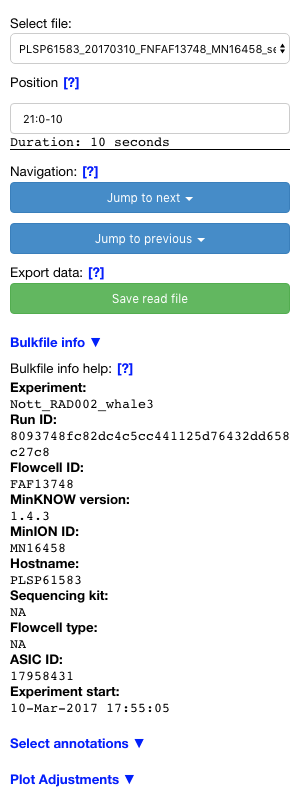
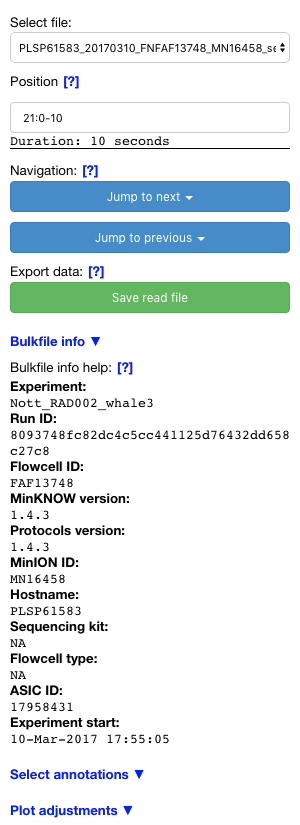
Update quickstart docs, main.py OSError bug resolved

Changed region(s): [[0.03, 0.0, 0.99, 0.9962]]

diff --git a/main.py b/main.py
@@ -413,7 +413,7 @@ def build_widgets():
     )
     wdg['label_filter'] = CheckboxGroup(labels=check_labels, active=check_active, css_classes=['filter-drop'])
     
-    wdg['plot_options'] = Div(text='Plot Adjustments', css_classes=['adjust-dropdown', 'caret-down'])
+    wdg['plot_options'] = Div(text='Plot adjustments', css_classes=['adjust-dropdown', 'caret-down'])
     wdg['adjust_help'] = Div(text='adjust help:', css_classes=['adjust-help-dropdown', 'help-text', 'adjust-drop'])
     wdg['adjust_help_text'] = Div(
         text="""Adjust chart parameters, such as width, height and where annotations are rendered. These are set in the
@@ -428,12 +428,12 @@ def build_widgets():
         value=cfg_po['label_height'],
         css_classes=['adjust-drop']
     )
-    wdg['po_y_max'] = TextInput(title="y max", value=cfg_po['y_max'], css_classes=['adjust-drop'])
-    wdg['po_y_min'] = TextInput(title="y min", value=cfg_po['y_min'], css_classes=['adjust-drop'])
+    wdg['po_y_max'] = TextInput(title="y max", value=cfg_po['y_max'], css_classes=['adjust-drop', 'toggle_y_target'])
+    wdg['po_y_min'] = TextInput(title="y min", value=cfg_po['y_min'], css_classes=['adjust-drop', 'toggle_y_target'])
     wdg['toggle_y_axis'] = Toggle(
         label="Fixed Y-axis",
         button_type="danger",
-        css_classes=['toggle_button_g_r', 'adjust-drop'],
+        css_classes=['toggle_button_g_r', 'adjust-drop', 'toggle_y_axis'],
         active=False
     )
     wdg['toggle_smoothing'] = Toggle(
@@ -699,10 +699,19 @@ toggle_inputs = ['toggle_y_axis', 'toggle_annotations', 'toggle_smoothing']
 app_data['app_vars']['files'] = []
 p = Path(cfg_dr['dir'])
 app_data['app_vars']['files'] = [(x.name, x.name) for x in p.iterdir() if x.suffix == '.fast5']
+# check files are useable by h5py
 for index, file in enumerate(app_data['app_vars']['files']):
     file = file[0]
-    bulk_file = h5py.File(Path(Path(cfg_dr['dir']) / file), 'r')
-    try_path = bulk_file["Raw"]
+    try:
+        bulk_file = h5py.File(Path(Path(cfg_dr['dir']) / file), 'r')
+    except OSError:
+        app_data['app_vars']['files'][index] = None
+        continue
+    try:
+        try_path = bulk_file["Raw"]
+    except KeyError:
+        app_data['app_vars']['files'][index] = None
+        continue
     for i, channel in enumerate(try_path):
         if i == 0:
             try:

diff --git a/docs/quickstart.rst b/docs/quickstart.rst
@@ -27,6 +27,8 @@ entered.
     :class: figure
     :alt: Screenshot of bulkvis showing, in the top left corner, a drop-down box with a file selected and a text box labeled position
 
+    Screenshot of bulkvis waiting for position information
+
 Selecting a position
 ====================
 The position can be selected by either supplying coordinates or a fastq read header. The contents of this input is submitted
@@ -56,7 +58,7 @@ After entering valid input the chart and other elements will load:
     :class: figure
     :alt: Screenshot of bulkvis showing a 'squiggle' plot of raw nanopore signal and a left-hand sidebar containing information about the plot
 
-
+    Screenshot of bulkvis fully loaded with both plot and sidebar
 
 Navigating
 ==========
@@ -76,25 +78,62 @@ displayed in MinKNOW.
     :class: figure
     :alt: Screenshot of the sidebar from bulkvis, showing the file selections drop-down, position input, jump-to buttons, export button, information panel, and two hidden sections ('Select annotations' and 'Plot adjustments')
 
-Screenshot of sidebar
+    Screenshot of bulkvis sidebar
 
 Annotations
 ===========
-How to use annotations ...
+Annotations are added to the plot based on state data and intermediate data from the bulkfile. These represent the label
+computed by MinKNOW at specific time points in the experiment.
+
+Selecting a checkbox will allow that specific label to be rendered on the plot. The 'Display annotations' button will toggle
+all annotations on/off.
+
+.. figure:: _static/05_annotations.png
+    :class: figure
+    :alt: Screenshot of 'Select annotations' section of sidebar showing a button labeled 'Display annotations' and a list of checkboxes
+
+    Screenshot of the annotation selection panel
 
 Plot adjustments
 ================
-What plot adjustments can be made
+The plot adjustments are infrequently used options that are for tweaking the appearance of the plot without having to modify the configuration file.
+Here the width and height of the plot can be set to match the current screen, the height that annotations are rendered at can be adjusted, and the Y-axis can
+be fixed to a given range.
 
-Exporting read files
-====================
-How to export read files and where they are written
+Plot smoothing is on by default, as raw signal data can quickly become massive, this reduces the number of points plot but maintains the shape of the data.
+Smoothing will automatically turn on whenever the position is changed.
+
+.. figure:: _static/06_adjustments.png
+    :class: figure
+    :alt: Screenshot of 'Plot adjusments' section of the sidebar showing inputs for width, height, annotation height, y max, and y min as well as buttons for 'Fixed Y-axis' and 'Smoothing'
+
+    Screenshot of the plot adjustments panel
 
 Exporting images
 ================
-How to export images of plots, this is browser dependent...
+bulkvis is able to export images of plots as below, this is done using the save function (|save_icon|) which will either download
+the current plot view as ``bokeh_plot.png`` or, in safari, open the image in a new tab where it can be saved by right clicking and selecting save.
+
+.. figure:: _static/07_plot.png
+    :class: figure
+    :alt: Example plot of raw signal data from an Oxford Nanopore bulk-fast5-file
+
+    Example plot from bulkvis
+
+Exporting read files
+====================
+bulkvis is able to export arbitrary read files from bulk-fast5-files. The data range is determined by the current position as set in the text input.
+When a read file is generated it is written to the folder set in the configuration file.
+
+.. figure:: _static/08_read_file.png
+    :class: figure
+    :alt: Screenshot of bulkvis sidebar showing position, duration, 'read file created', jump buttons and export button
+
+    Screenshot of export button and success message (below 'duration')
 
 .. |zoom_icon| image:: /_static/icons/zoom.png
     :height: 11pt
 .. |xpan_icon| image:: /_static/icons/xpan.png
+    :height: 11pt
+.. |save_icon| image:: /_static/icons/save.png
     :height: 11pt
